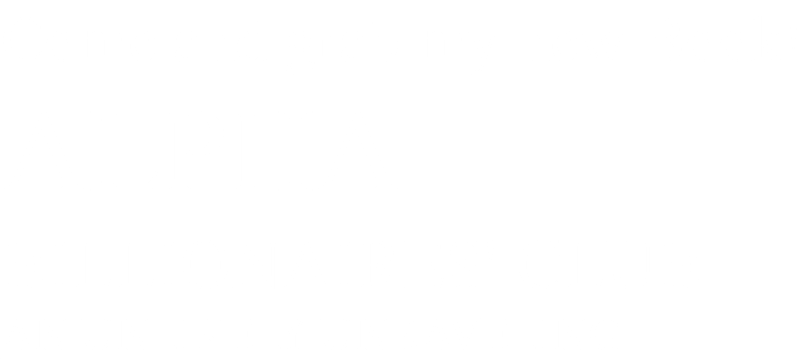
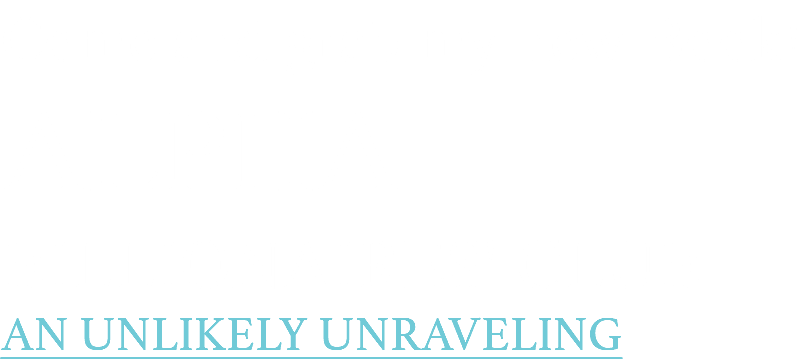
summary

Changed region(s): [[0.0, 0.8764, 0.7707, 0.9973]]

diff --git a/css/index.css b/css/index.css
@@ -1,1 +1,1 @@
-.version.index{color:#0000FD;background-color:#14ADD8;}#muse_css_mq{background-color:#FFFFFF;}#page{z-index:1;min-height:418px;background-image:none;border-width:0px;border-color:#000000;background-color:#000000;padding-top:20px;padding-bottom:62px;width:100%;max-width:960px;margin-left:auto;margin-right:auto;}#u493-11{z-index:4;display:block;vertical-align:top;position:relative;width:84.48%;margin-left:7.71%;}#u490{z-index:2;background-color:transparent;position:relative;width:84.38%;margin-left:7.82%;}#u490_img{width:100%;}#u494-4{z-index:15;min-height:20px;background-color:transparent;text-align:center;color:#FFFFFF;position:relative;width:84.38%;margin-left:7.71%;}#u967{z-index:19;min-height:165px;border-width:0px;border-color:transparent;background-color:transparent;position:relative;width:84.38%;margin-left:7.71%;}.css_verticalspacer .verticalspacer{height:calc(100vh - 1778px);}.html{background-color:#000000;}body{position:relative;min-width:320px;}
+.version.index{color:#000019;background-color:#428FC6;}#muse_css_mq{background-color:#FFFFFF;}#page{z-index:1;min-height:418px;background-image:none;border-width:0px;border-color:#000000;background-color:#000000;padding-top:20px;padding-bottom:62px;width:100%;max-width:960px;margin-left:auto;margin-right:auto;}#u493-11{z-index:4;display:block;vertical-align:top;position:relative;width:84.48%;margin-left:7.71%;}#u490{z-index:2;background-color:transparent;margin-top:10px;position:relative;width:84.38%;margin-left:7.82%;}#u490_img{width:100%;}#u494-4{z-index:15;min-height:20px;background-color:transparent;text-align:center;color:#FFFFFF;margin-top:10px;position:relative;width:84.38%;margin-left:7.71%;}#u967{z-index:19;min-height:165px;border-width:0px;border-color:transparent;background-color:transparent;position:relative;width:84.38%;margin-left:7.71%;}.css_verticalspacer .verticalspacer{height:calc(100vh - 1798px);}.html{background-color:#000000;}body{position:relative;min-width:320px;}

diff --git a/index.html b/index.html
@@ -17,12 +17,12 @@ if(typeof Muse == "undefined") window.Muse = {}; window.Muse.assets = {"required
   <title>Alpha Billionaire's Club An Unlikely Unraveling</title>
   <!-- CSS -->
   <link rel="stylesheet" type="text/css" href="css/site_global.css?crc=444006867"/>
-  <link rel="stylesheet" type="text/css" href="css/index.css?crc=4245990872" id="pagesheet"/>
+  <link rel="stylesheet" type="text/css" href="css/index.css?crc=423792582" id="pagesheet"/>
    </head>
  <body>
 
   <div class="clearfix borderbox" id="page"><!-- column -->
-   <img class="colelem" id="u493-11" alt="Come and grab my new Book! ALPHA BILLIONAIRES' CLUB AN UNLIKELY UNRAVELING" src="images/u493-11.png?crc=485073580" data-image-width="811"/><!-- rasterized frame -->
+   <img class="colelem" id="u493-11" alt="Come and grab my new Book! ALPHA BILLIONAIRES' CLUB AN UNLIKELY UNRAVELING" src="images/u493-11.png?crc=4279998024" data-image-width="811"/><!-- rasterized frame -->
    <div class="clip_frame colelem" id="u490"><!-- image -->
     <img class="block" id="u490_img" src="images/abc%20v4-crop-u490.jpg?crc=465709876" alt="" data-heightwidthratio="1.4185185185185185" data-image-width="810" data-image-height="1149"/>
    </div>
@@ -73,7 +73,7 @@ if(typeof Muse == "undefined") window.Muse = {}; window.Muse.assets = {"required
 <script src="https://static.mailerlite.com/js/w/webforms.min.js?v42b571e293fbe042bc115150134382c9" type="text/javascript"></script>
 
    </div>
-   <div class="verticalspacer" data-offset-top="1718" data-content-above-spacer="1717" data-content-below-spacer="61" data-sizePolicy="fixed" data-pintopage="page_fixedLeft"></div>
+   <div class="verticalspacer" data-offset-top="1738" data-content-above-spacer="1737" data-content-below-spacer="61" data-sizePolicy="fixed" data-pintopage="page_fixedLeft"></div>
   </div>
   <!-- Other scripts -->
   <script type="text/javascript">
